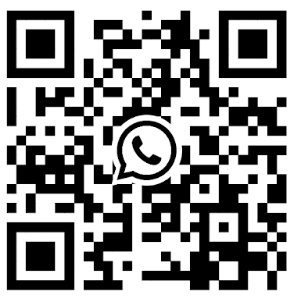
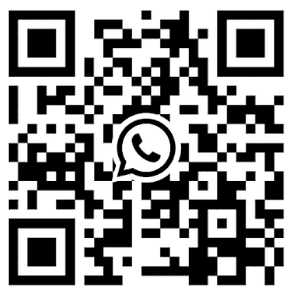
Shrink QR codes and preload them before contact modals open
wc.png was 546px/65 KB for a 160px slot; now 320px 16-grey palette PNG
(11 KB), wa.png 16 KB -> 6 KB. Payloads verified identical with jsQR.
Modal QR images were lazy, so the request only started on open (~2 s from
abroad to the Beijing server); they are now preloaded when the page idles.

diff --git a/src/App.jsx b/src/App.jsx
@@ -1,6 +1,6 @@
 // src/App.jsx
 import { Routes, Route } from 'react-router-dom'; // ✅ Только Routes и Route, без BrowserRouter
-import { useLayoutEffect, useState } from 'react';
+import { useEffect, useLayoutEffect, useState } from 'react';
 
 // Layout & Sections
 import { Navigation } from './components/layout/Navigation';
@@ -28,6 +28,7 @@ import { IndustryArticlePage } from './pages/IndustryArticlePage';
 import { LightboxModal } from './components/modals/LightboxModal';
 import { InfoModal } from './components/modals/InfoModal';
 import { WeChatModal } from './components/modals/WeChatModal';
+import { preloadQrCodes } from './assets/qr';
 import { ProductContactModal } from './components/modals/ProductContactModal';
 import { GalleryCarouselModal } from './components/modals/GalleryCarouselModal';
 
@@ -107,6 +108,8 @@ export default function App() {
   const [productContactModal, setProductContactModal] = useState(null);
   const [galleryProduct, setGalleryProduct] = useState(null);
   const [galleryInitialIndex, setGalleryInitialIndex] = useState(0);
+
+  useEffect(() => preloadQrCodes(), []);
 
   const openProductGallery = (product, index = 0) => {
     setGalleryInitialIndex(index);

diff --git a/src/assets/qr/index.js b/src/assets/qr/index.js
@@ -3,3 +3,21 @@ import wc from './wc.png';
 
 export const QR_WHATSAPP = wa;
 export const QR_WECHAT = wc;
+
+/**
+ * Warm the browser cache once the page has settled, so the QR codes show
+ * instantly when a contact modal opens instead of starting a request then
+ * (the server is in Beijing: each request costs a long round trip abroad).
+ */
+export const preloadQrCodes = () => {
+  if (typeof window === 'undefined') return undefined;
+  const load = () => {
+    for (const src of [QR_WECHAT, QR_WHATSAPP]) new Image().src = src;
+  };
+  if ('requestIdleCallback' in window) {
+    const id = window.requestIdleCallback(load, { timeout: 4000 });
+    return () => window.cancelIdleCallback(id);
+  }
+  const id = window.setTimeout(load, 2000);
+  return () => window.clearTimeout(id);
+};

diff --git a/src/components/modals/WeChatModal.jsx b/src/components/modals/WeChatModal.jsx
@@ -9,7 +9,7 @@ export const WeChatModal = ({ onClose }) => (
       <MessageCircle className="w-12 h-12 text-[#07C160] mx-auto mb-4"/>
       <h3 className="text-xl font-bold text-white mb-2">WeChat</h3>
       <div className="w-40 h-40 bg-white rounded-xl mx-auto mb-4 p-2">
-        <img src={QR_WECHAT} alt="WeChat QR" loading="lazy" className="w-full h-full object-contain" draggable={false} />
+        <img src={QR_WECHAT} alt="WeChat QR" className="w-full h-full object-contain" draggable={false} />
       </div>
       <p className="text-green-400 text-sm">Scan to contact us</p>
     </div>

diff --git a/src/components/modals/ProductContactModal.jsx b/src/components/modals/ProductContactModal.jsx
@@ -40,7 +40,7 @@ export const ProductContactModal = ({ product, onClose }) => {
             </div>
             <h4 className="text-slate-900 font-semibold text-center text-sm">{t('productModal.wechat')}</h4>
             <div className="bg-white p-2 rounded-lg w-24 h-24 border border-slate-200">
-              <img src={QR_WECHAT} alt="WeChat QR" loading="lazy" className="w-full h-full object-contain" draggable={false} />
+              <img src={QR_WECHAT} alt="WeChat QR" className="w-full h-full object-contain" draggable={false} />
             </div>
           </div>
         </div>
